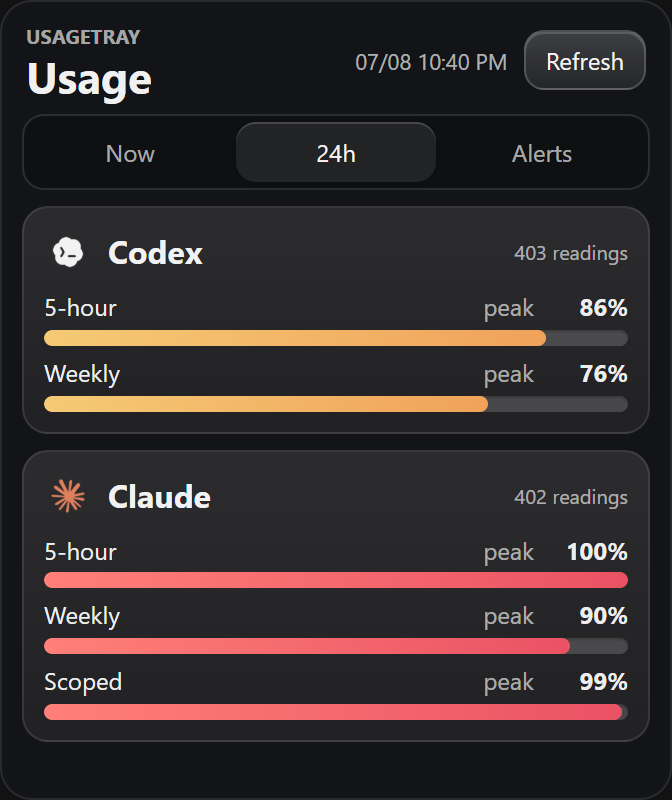
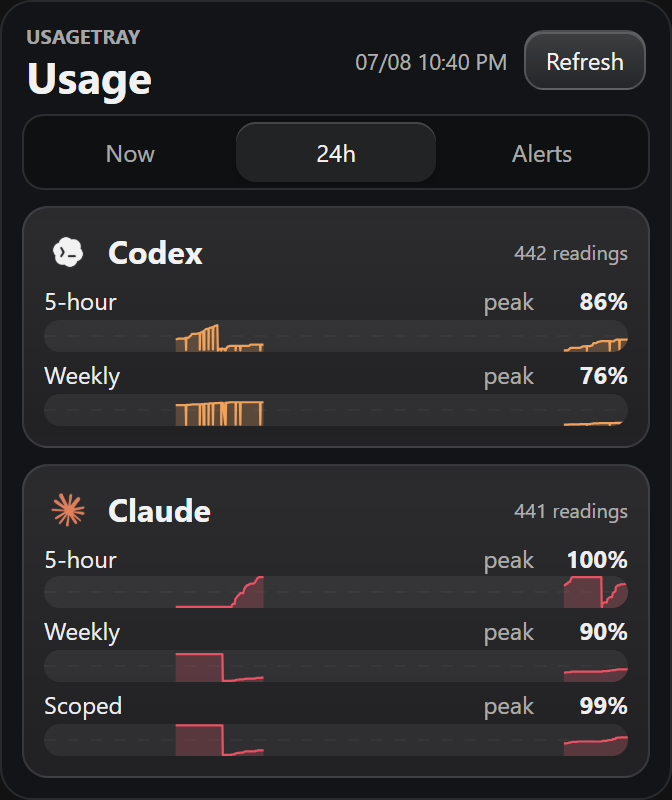
Draw 24h usage sparklines, move Telegram footer into code block

diff --git a/app/src/main.tsx b/app/src/main.tsx
@@ -215,17 +215,63 @@ function AgentPanel({ name, agent }: { name: string; agent?: AgentResult }) {
   );
 }
 
-function peakUsage(history: HistorySnapshot[], agentName: string, windowName: string): number | null {
-  const values = history
-    .map((snapshot) => snapshot.agents[agentName]?.windows[windowName]?.used_percent)
-    .filter((value): value is number => typeof value === "number" && !Number.isNaN(value));
-  return values.length > 0 ? Math.max(...values) : null;
+type TrendPoint = { t: number; v: number };
+
+function trendSeries(history: HistorySnapshot[], agentName: string, windowName: string): TrendPoint[] {
+  return history
+    .map((snapshot) => ({
+      t: Date.parse(snapshot.captured_at),
+      v: snapshot.agents[agentName]?.windows[windowName]?.used_percent,
+    }))
+    .filter((point): point is TrendPoint => Number.isFinite(point.t) && typeof point.v === "number" && !Number.isNaN(point.v))
+    .sort((a, b) => a.t - b.t);
 }
 
-function HistoryRow({ label, value }: { label: string; value: number | null }) {
-  const used = clampPercent(value);
+const TREND_HOURS = 24;
+const TREND_GAP_MS = 10 * 60 * 1000; // break the line when the app was off
+
+function trendSegments(points: TrendPoint[], end: number): TrendPoint[][] {
+  const start = end - TREND_HOURS * 3600 * 1000;
+  const visible = points.filter((point) => point.t >= start && point.t <= end);
+  const segments: TrendPoint[][] = [];
+  for (const point of visible) {
+    const current = segments[segments.length - 1];
+    if (current && point.t - current[current.length - 1].t <= TREND_GAP_MS) {
+      current.push(point);
+    } else {
+      segments.push([point]);
+    }
+  }
+  return segments;
+}
+
+const SPARK_W = 100;
+const SPARK_H = 30;
+
+function sparkX(t: number, end: number): number {
+  const start = end - TREND_HOURS * 3600 * 1000;
+  return ((t - start) / (end - start)) * SPARK_W;
+}
+
+function sparkY(v: number): number {
+  return SPARK_H - (clampPercent(v) / 100) * (SPARK_H - 2) - 1;
+}
+
+function HistoryRow({
+  label,
+  points,
+  end,
+}: {
+  label: string;
+  points: TrendPoint[];
+  end: number;
+}) {
+  const peak = points.length > 0 ? Math.max(...points.map((point) => point.v)) : null;
+  const used = clampPercent(peak);
   const high = used >= 90;
   const warm = used >= 70 && used < 90;
+  const tone = high ? "danger" : warm ? "warm" : "";
+  const segments = trendSegments(points, end);
 
   return (
     <div className="window-row">
@@ -233,19 +279,27 @@ function HistoryRow({ label, value }: { label: string; value: number | null }) {
         <span>{label}</span>
         <span className="window-values">
           <em>peak</em>
-          <strong>{formatPercent(value)}</strong>
+          <strong>{formatPercent(peak)}</strong>
         </span>
       </div>
-      <div
-        className="bar-shell"
-        role="progressbar"
-        aria-label={`${label} peak usage`}
-        aria-valuemin={0}
-        aria-valuemax={100}
-        aria-valuenow={value ?? undefined}
-        aria-valuetext={formatPercent(value)}
-      >
-        <div className={`bar-fill ${high ? "danger" : warm ? "warm" : ""}`} style={{ width: `${used}%` }} />
+      <div className={`spark-shell ${tone}`} role="img" aria-label={`${label} usage over the last 24 hours, peak ${formatPercent(peak)}`}>
+        <svg viewBox={`0 0 ${SPARK_W} ${SPARK_H}`} preserveAspectRatio="none">
+          <line className="spark-grid" x1="0" y1={sparkY(50)} x2={SPARK_W} y2={sparkY(50)} />
+          {segments.map((segment, index) => {
+            const line = segment
+              .map((point, i) => `${i === 0 ? "M" : "L"}${sparkX(point.t, end).toFixed(2)},${sparkY(point.v).toFixed(2)}`)
+              .join(" ");
+            const first = segment[0];
+            const last = segment[segment.length - 1];
+            const area = `${line} L${sparkX(last.t, end).toFixed(2)},${SPARK_H} L${sparkX(first.t, end).toFixed(2)},${SPARK_H} Z`;
+            return (
+              <g key={index}>
+                <path className="spark-fill" d={area} />
+                <path className="spark-line" d={line} />
+              </g>
+            );
+          })}
+        </svg>
       </div>
     </div>
   );
@@ -255,6 +309,7 @@ function HistoryAgentPanel({ name, history }: { name: string; history: HistorySn
   const readings = history.filter((snapshot) => snapshot.agents[name]);
   const availableReadings = readings.filter((snapshot) => snapshot.agents[name]?.available).length;
   const order = name === "claude" ? ["five_hour", "weekly", "weekly_scoped"] : ["five_hour", "weekly"];
+  const end = readings.reduce((latest, snapshot) => Math.max(latest, Date.parse(snapshot.captured_at) || 0), 0) || Date.now();
 
   return (
     <section className="agent-panel">
@@ -267,9 +322,9 @@ function HistoryAgentPanel({ name, history }: { name: string; history: HistorySn
       </div>
 
       {readings.length > 0 ? (
-        <div className="window-stack">
+        <div className="window-stack history-stack">
           {order.map((key) => (
-            <HistoryRow key={key} label={pickLabel(key)} value={peakUsage(readings, name, key)} />
+            <HistoryRow key={key} label={pickLabel(key)} points={trendSeries(readings, name, key)} end={end} />
           ))}
         </div>
       ) : (

diff --git a/app/src/styles.css b/app/src/styles.css
@@ -345,6 +345,57 @@ h2 {
   background: linear-gradient(90deg, #ff8078, #ea5264);
 }
 
+.history-stack {
+  gap: 5px;
+  margin-top: 6px;
+}
+
+.history-stack .window-row {
+  gap: 2px;
+}
+
+.spark-shell {
+  width: 100%;
+  height: 16px;
+  overflow: hidden;
+  border-radius: 8px;
+  background: rgba(255, 255, 255, 0.06);
+  color: #73aaff;
+}
+
+.spark-shell.warm {
+  color: #f0a25a;
+}
+
+.spark-shell.danger {
+  color: #ea5264;
+}
+
+.spark-shell svg {
+  display: block;
+  width: 100%;
+  height: 100%;
+}
+
+.spark-grid {
+  stroke: rgba(255, 255, 255, 0.14);
+  stroke-width: 0.4;
+  stroke-dasharray: 2 2;
+}
+
+.spark-line {
+  fill: none;
+  stroke: currentColor;
+  stroke-width: 1.1;
+  vector-effect: non-scaling-stroke;
+  stroke-linejoin: round;
+}
+
+.spark-fill {
+  fill: currentColor;
+  opacity: 0.22;
+}
+
 .empty-state {
   margin-top: 9px;
   padding: 10px;
@@ -462,6 +513,14 @@ h2 {
   .mode-switch {
     border-color: rgba(255, 255, 255, 0.55);
     background: rgba(0, 0, 0, 0.06);
+  }
+
+  .spark-shell {
+    background: rgba(15, 23, 42, 0.05);
+  }
+
+  .spark-grid {
+    stroke: rgba(15, 23, 42, 0.16);
   }
 
   .mode-switch button,

diff --git a/collectors/telegram_bridge.py b/collectors/telegram_bridge.py
@@ -383,8 +383,7 @@ def alert_message(snapshot: dict[str, Any], crossings: list[dict[str, Any]]) -> 
     return "\n\n".join(
         [
             escape_markdown_v2("\n".join(header_lines)),
-            f"```\n{escape_code_block(report)}\n```",
-            escape_markdown_v2(footer),
+            f"```\n{escape_code_block(report)}\n\n{escape_code_block(footer)}\n```",
         ]
     )
 
@@ -398,8 +397,7 @@ def error_message(snapshot: dict[str, Any], agent: str, code: str, text: str | N
     return "\n\n".join(
         [
             escape_markdown_v2(header),
-            f"```\n{escape_code_block(report)}\n```",
-            escape_markdown_v2(footer),
+            f"```\n{escape_code_block(report)}\n\n{escape_code_block(footer)}\n```",
         ]
     )
 
@@ -410,8 +408,7 @@ def usage_command_message(snapshot: dict[str, Any]) -> str:
     return "\n\n".join(
         [
             escape_markdown_v2("📊 目前用量"),
-            f"```\n{escape_code_block(report)}\n```",
-            escape_markdown_v2(footer),
+            f"```\n{escape_code_block(report)}\n\n{escape_code_block(footer)}\n```",
         ]
     )
 

diff --git a/STATUS.md b/STATUS.md
@@ -830,3 +830,14 @@ crossed a threshold during one run and sends a single message: one header
 line per crossing (emoji, window, threshold, used, reset) above the shared
 report table. State marking semantics unchanged (marked only after a
 successful send). Test added (27 total).
+
+### 35. 24h tab shows real trends; Telegram footer moved into code block (2026-07-10, same day)
+
+- The 24h tab now draws a 24-hour area sparkline per usage window (pure
+  inline SVG, no chart library): peaks, resets, and app-off gaps (line breaks
+  when readings are >10 min apart) are all visible. Peak value retained on
+  the right. History rows use a compact spacing set so all five sparklines
+  fit the 336x400 window exactly (measured overflow 0px via headless Edge).
+- Telegram messages now include the 更新 timestamp inside the code fence, per
+  user request.
+- README screenshots regenerated with real 24h data.